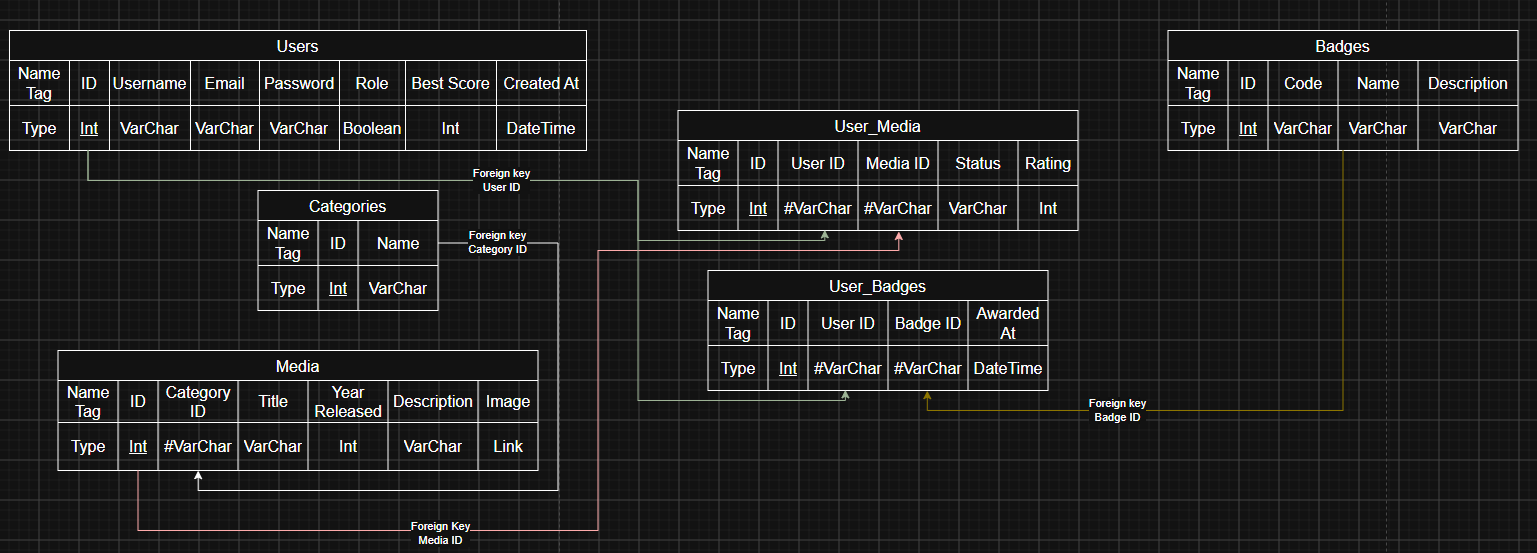
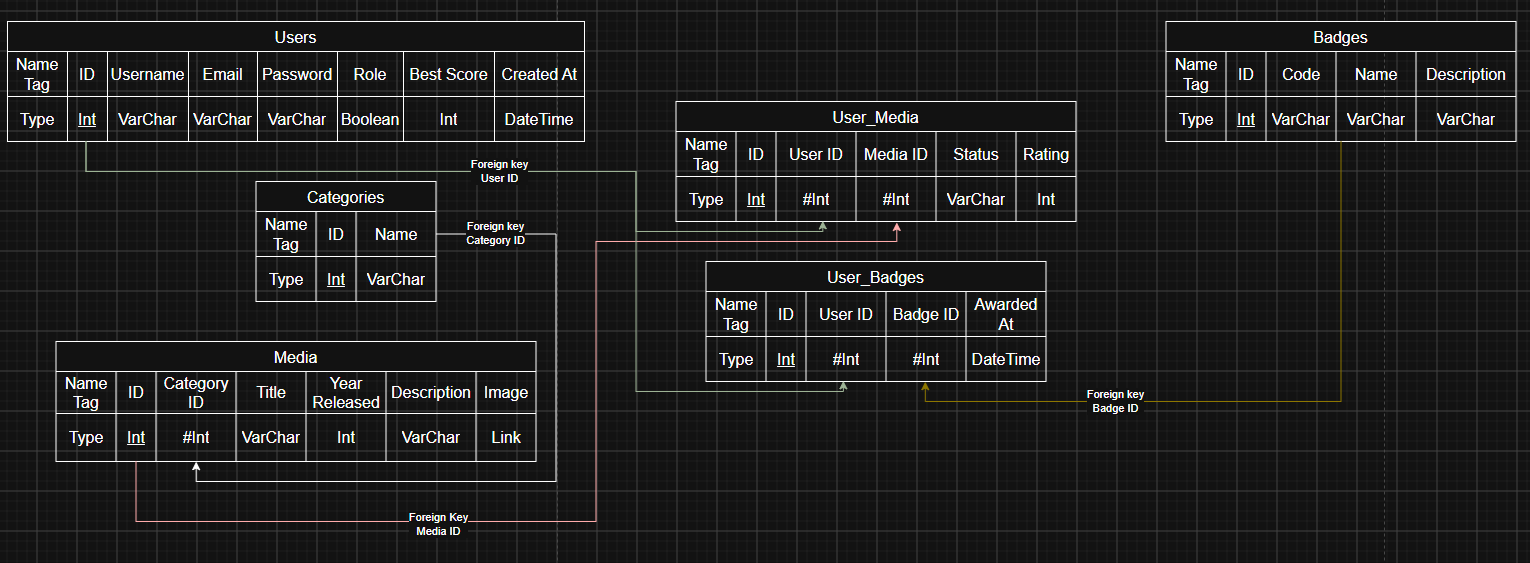
finally pushing the README for week 2

diff --git a/README.md b/README.md
@@ -1,6 +1,6 @@
 **Flash Project :**
 
-done by **Ewen**, **Assya**, **Matheo**, **Mathis**,
+done by **Ewen**, **Assya**, **Matteo**, **Mathis**,
 
 The objectif of this project is to create an interactif web site with **HTML**, **CSS**, **SQL**, **PHP** and **JS**.
 
@@ -8,9 +8,9 @@ The objectif of this project is to create an interactif web site with **HTML**, 
 
 Each page will be openable through clickable buttons, a secret code will be implemented too to access a secret mini-game.
 
-**Vault** is used to **navigate** and **documentate** **series**, **movies** and **video** **games**, the pages are able to scale in size to fit any device the user want.
+**Vault** is used to **navigate** and **document** **series**, **movies** and **video** **games**, the pages are able to scale in size to fit any device the user want.
 
-
+The SQL is running on **Laragon.wamp** in version 8.7.0.0
 
 
 
@@ -18,11 +18,11 @@ Each page will be openable through clickable buttons, a secret code will be impl
 
 In this first week we used **HTML**, **HTML** goal is to create the structure the pages themselves :
 
-&#x09;- The **Index** page regroup every piece like a catalogue, it features a **search bar**, a **filter** to see only selected type of cards or see cards by selected **tags**. On the bottom of the page, above the footer, the catalogue contains a **progression** **zone** showing the archivage of your cards, the amount of **exp** obtained with it.
+&#x09;- The **Index** page regroup every piece like a catalogue, it features a **search bar**, a **filter** to see only selected type of cards or see cards by selected **tags**. On the bottom of the page, above the footer, the catalogue contains a **progression** **zone** showing the archivage of your cards, the amount of **xp** obtained with it.
 
-&#x09;- The **Profile** page present the user **level**, **exp** amount, your **rank**. Under it, A collection of **badge** is shown with the way to obtain them, there is also your **personnal collection** and their **details**.
+&#x09;- The **Profile** page present the user **level**, **xp** amount, your **rank**. Under it, A collection of **badge** is shown with the way to obtain them, there is also your **personal collection** and their **details**.
 
-&#x09;- The **admin** page regroup multiple other pages, a **general console** showing the catalogue with a fast way to create a new card. Other pages are made to **manage** **accounts** and **xp**, and to manage the catalogue
+&#x09;- The **admin** page regroup multiple other pages, a **general console** showing the catalogue with a fast way to create a new card. Other pages are made to **manage** **accounts** and **xp**, and to manage the catalogue.
 
 
 
@@ -30,7 +30,7 @@ We also used **CSS** To make the first lines of code look good while trying to c
 
 &#x09;- On every page, the **Header** and **footer** are arranged approximately the same way with the same colors, size and other settings.
 
-&#x09;- Pages are arranged in **grid** showing 
+&#x09;- Pages are arranged in **grid** showing the **proportions** of each section in the page.
 
 &#x09;- The **UI** keep a very simple style with shades of **yellow** and **purple**.
 
@@ -38,17 +38,73 @@ We also used **CSS** To make the first lines of code look good while trying to c
 
 
 
+
+
+&#x09;- we had to work on both at the same time so the first thing we had to work on is the **header**, the **header** is the main way to **navigate** through the website we had to make sure it worked step by step on both side to be able to continue.
+
+&#x09;- Then we **split** on multiple tasks to be more efficient. **Matteo** worked on the **profile** and **admin** pages so we can click on the **links**. **Assya** and **Mathis** worked on the **catalogue** to show 9 **Medias**, the **rating** given, the **status** and the **exp** earned for it. Ewen continued on the header and footer to polish them.
+
+
+
 &#x09;	**/----------------------------------- SEMAINE 2 -----------------------------------\\**
 
 On the second week, we worked with **SQL**, **SQL** is used to create **tables** and **databases** for our website.
 
-&#x09;- We first created multiple **tables** that will be used to **organize** the cards, users and other settings
+&#x09;- We first created multiple **tables** inside our previously created database that will be used to **organize** the **medias**, **users** and other settings like **badges** and the **user medias.**
 
-&#x09;- After that we created **links** with the **foreign** **keys**
+&#x09;- After that we created **links** with the **foreign** **keys**, **foreign keys** are used to link exterior tables to the one we're using so that it is easier to see everything.
+
+&#x09;- Then we did some **inserts** on most tables to **simulate** activity on the website, like adding **users**, the **medias** they have in their **collection** or the **category** of each medias.
+
+&#x09;- Lastly we tried to do the **joins** to show the results we wanted, like a **listing** of every **medias** that every user have in their **collection** or the **badges** a certain user have.
 
 
 
 
+
+
+
+There is 2 ways to create a **database** and import your code on it,
+
+You either:
+
+
+
+**create** a new blank **file**,
+
+**rename** it as you want,
+
+change the **type** of file to ".**SQL**".
+
+
+
+Then you can **open** it and start to write in it
+
+
+
+Or you can :
+
+
+
+Launch **PhpMyAdmin**
+
+Start a new page in **SQL**
+
+use the command :
+
+“**CREATE DATABASE IF NOT EXISTS**  ‘name of the database’
+
+&#x09;**CHARACTER SET** utf8mb4
+
+&#x09;**COLLATE** utf8mb4\_unicode\_ci“
+
+
+
+then do
+
+"**USE** ‘name of the database’ "
+
+to enable it and start writing your code
 
 
 
@@ -64,5 +120,5 @@ For the third week, **PHP** was used to **energize** our code and website
 
 &#x09;	**/----------------------------------- SEMAINE 4 -----------------------------------\\**
 
-in this last week we used **JS** 
+in this last week we used **JS**
 
